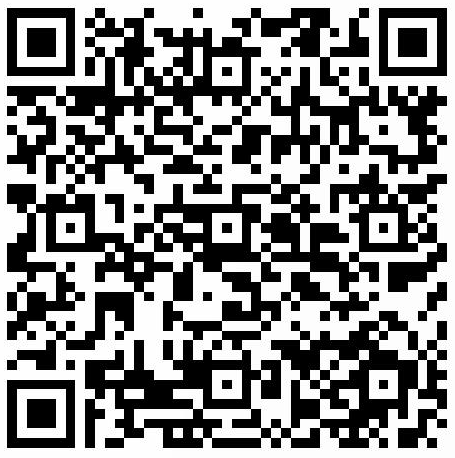
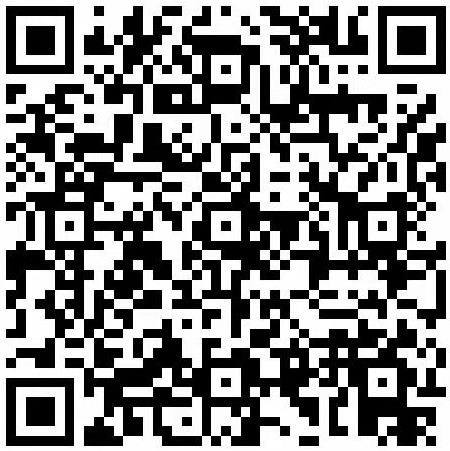
QQ

diff --git a/.vuepress/components/Qq.vue b/.vuepress/components/Qq.vue
@@ -1,5 +1,5 @@
 <template>
-  <a style="vertical-align: top;" @click="sendGaEvent" target="_blank" href="https://qm.qq.com/cgi-bin/qm/qr?k=Pm3XTP87T-t4yJWr3YEsIs46fEwhp9G2&jump_from=webapi"><img border="0" src="//pub.idqqimg.com/wpa/images/group.png" alt="kuboard for kubernetes (k8s)" title="kuboard for kubernetes (k8s)"></a>
+  <a style="vertical-align: top;" @click="sendGaEvent" target="_blank" href="https://qm.qq.com/cgi-bin/qm/qr?k=DysHZJwzXSMFiWregLeqxZZwcU6SZlGr&jump_from=webapi"><img border="0" src="//pub.idqqimg.com/wpa/images/group.png" alt="kuboard for kubernetes (k8s)" title="kuboard 4 K8s 三群"></a>
 </template>
 
 <script>
